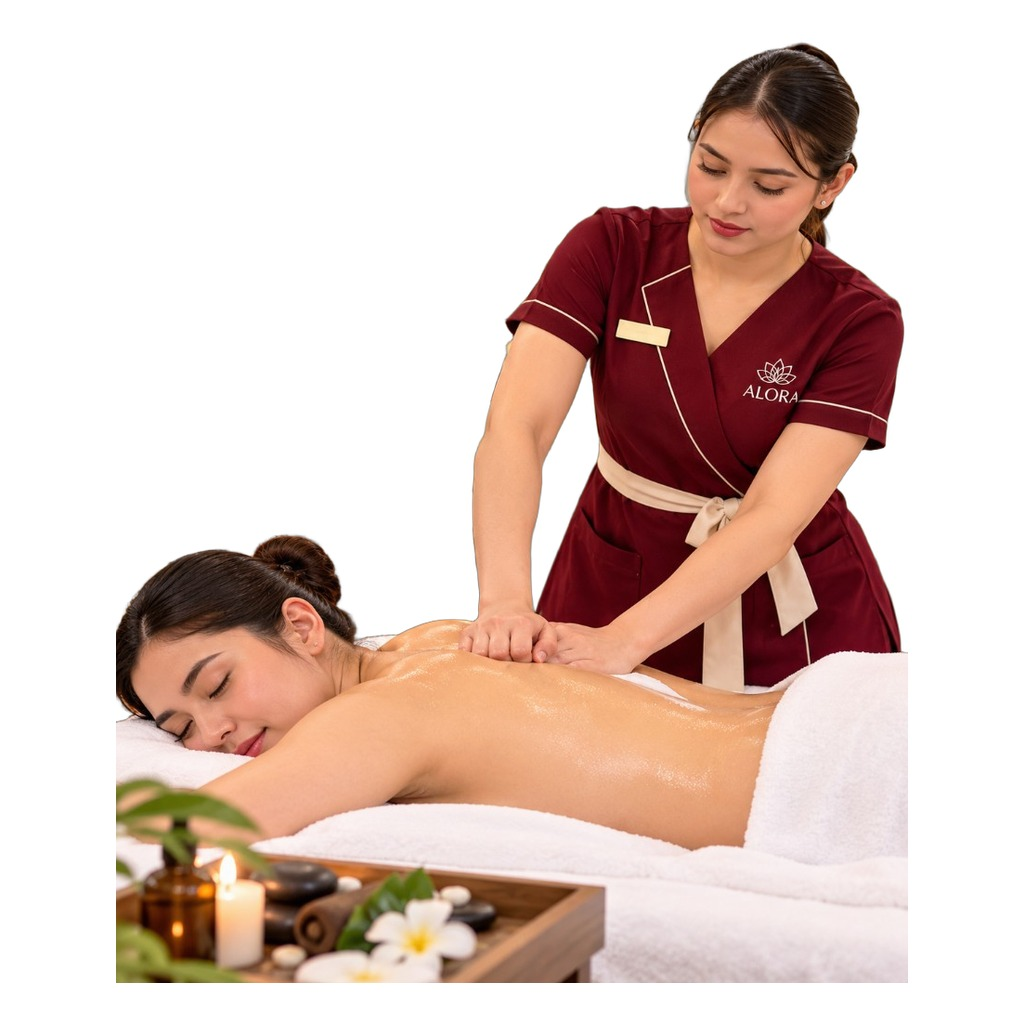
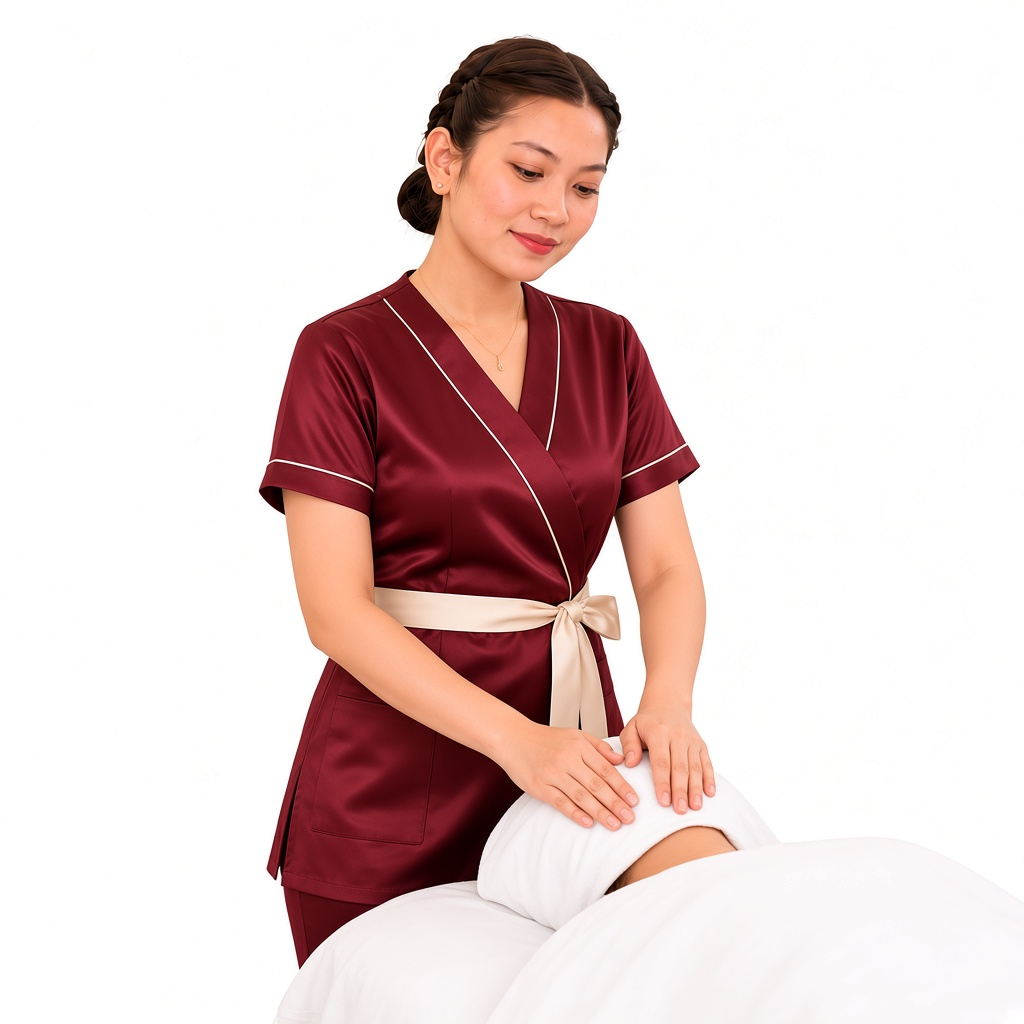
added changes

diff --git a/src/app/globals.css b/src/app/globals.css
@@ -1369,21 +1369,39 @@ html.is-navigating,html.is-navigating a{cursor:progress}
   .home .hero-slide-caption .btn-primary{padding:9px 14px;font-size:13px}
 }
 
-/* Hero caption text — force larger */
+/* Hero caption text — bold, clear, proper */
 .home .hero-slide-caption strong,
 .home .hero-slide-caption strong a{
-  font-size:26px!important;
-  line-height:1.15!important;
-  padding:10px 18px!important;
-  font-weight:600!important;
+  font-family:var(--font-display),Georgia,'Times New Roman',serif!important;
+  font-size:22px!important;
+  line-height:1.1!important;
+  padding:12px 20px!important;
+  font-weight:900!important;
+  letter-spacing:.04em!important;
+  -webkit-font-smoothing:antialiased;
+  text-rendering:geometricPrecision;
 }
 .home .hero-slide-caption .btn-primary{
-  font-size:15px!important;
-  padding:11px 18px!important;
+  font-family:var(--font-display),Georgia,'Times New Roman',serif!important;
+  font-size:16px!important;
+  font-weight:900!important;
+  letter-spacing:.04em!important;
+  padding:12px 20px!important;
 }
 @media(max-width:800px){
   .home .hero-slide-caption strong,
-  .home .hero-slide-caption strong a{font-size:20px!important;padding:9px 14px!important}
+  .home .hero-slide-caption strong a{
+    font-size:22px!important;
+    font-weight:900!important;
+    letter-spacing:.05em!important;
+    padding:12px 22px!important;
+  }
+  .home .hero-slide-caption .btn-primary{
+    font-size:16px!important;
+    font-weight:900!important;
+    letter-spacing:.05em!important;
+    padding:12px 22px!important;
+  }
 }
 
 /* Laptop hero — more compact */
@@ -1511,7 +1529,7 @@ html.is-navigating,html.is-navigating a{cursor:progress}
     opacity:1!important;
     mix-blend-mode:normal!important;
   }
-  /* Spa Package etc — red pill, white text (mobile style) */
+  /* Circles: white fill + white border (mobile) */
   .home .hero-slide-caption strong,
   .home .hero-slide-caption strong a{
     position:absolute!important;
@@ -1524,17 +1542,18 @@ html.is-navigating,html.is-navigating a{cursor:progress}
     justify-content:center!important;
     margin:0!important;
     padding:11px 20px!important;
-    border:0!important;
+    border:2px solid #ffffff!important;
     border-radius:999px!important;
-    background:#E10801!important;
-    background-color:#E10801!important;
+    background:#ffffff!important;
+    background-color:#ffffff!important;
     background-image:none!important;
-    box-shadow:none!important;
-    color:#fff!important;
-    font-size:18px!important;
-    font-weight:800!important;
-    letter-spacing:.12em!important;
-    line-height:1.2!important;
+    box-shadow:0 4px 18px rgba(5,22,80,.14)!important;
+    color:#E10801!important;
+    font-family:var(--font-display),Georgia,'Times New Roman',serif!important;
+    font-size:22px!important;
+    font-weight:900!important;
+    letter-spacing:.05em!important;
+    line-height:1.1!important;
     text-transform:uppercase!important;
     white-space:nowrap!important;
     -webkit-text-stroke:0;
@@ -1546,12 +1565,14 @@ html.is-navigating,html.is-navigating a{cursor:progress}
     transform:none!important;
     padding:0!important;
     background:transparent!important;
-    color:#fff!important;
+    border:0!important;
+    box-shadow:none!important;
+    color:#E10801!important;
     font-size:inherit!important;
-    font-weight:800!important;
+    font-weight:900!important;
     letter-spacing:inherit!important;
   }
-  /* Book Now — red bg, white text (mobile style) */
+  /* Book Now circle: white fill + white border (mobile) */
   .home .home-hero-visual .hero-slide-caption a.btn-primary,
   .home .home-hero-visual .hero-slide-caption a.btn-primary:hover,
   .home .home-hero-visual .hero-slide-caption a.btn-primary:focus,
@@ -1563,17 +1584,19 @@ html.is-navigating,html.is-navigating a{cursor:progress}
     z-index:30!important;
     transform:translateX(-50%)!important;
     margin:0!important;
-    font-size:15px!important;
-    font-weight:800!important;
-    padding:11px 22px!important;
+    font-family:var(--font-display),Georgia,'Times New Roman',serif!important;
+    font-size:16px!important;
+    font-weight:900!important;
+    letter-spacing:.05em!important;
+    padding:12px 22px!important;
     border-radius:999px!important;
-    background:#E10801!important;
-    background-color:#E10801!important;
+    background:#ffffff!important;
+    background-color:#ffffff!important;
     background-image:none!important;
-    color:#fff!important;
-    border:0!important;
-    border-color:#E10801!important;
-    box-shadow:none!important;
+    color:#E10801!important;
+    border:2px solid #ffffff!important;
+    border-color:#ffffff!important;
+    box-shadow:0 4px 18px rgba(5,22,80,.14)!important;
     filter:none!important;
     opacity:1!important;
     -webkit-text-stroke:0;
@@ -1584,8 +1607,8 @@ html.is-navigating,html.is-navigating a{cursor:progress}
     display:none!important;
   }
   .home .home-hero-visual .hero-slide-caption a.btn-primary svg{
-    color:#fff!important;
-    fill:#fff!important;
+    color:#E10801!important;
+    fill:#E10801!important;
     filter:none!important;
     opacity:1!important;
   }
@@ -1652,25 +1675,25 @@ html.is-navigating,html.is-navigating a{cursor:progress}
   .home .home-hero-visual:after{animation:none!important;opacity:.5}
 }
 
-/* Mobile Book Now — red fill + white text only on mobile */
+/* Mobile Book Now — white fill + white border (visible via soft shadow) */
 @media(max-width:800px){
   .home .home-hero .hero-slide-caption > a.btn-primary,
   .home .home-hero .hero-slide-caption > a.btn-primary:hover,
   .home .home-hero .hero-slide-caption > a.btn-primary:focus,
   .home .home-hero .hero-slide-caption > a.btn-primary:active{
-    background:#E10801!important;
-    background-color:#E10801!important;
+    background:#ffffff!important;
+    background-color:#ffffff!important;
     background-image:none!important;
-    color:#ffffff!important;
-    border:0!important;
-    box-shadow:none!important;
+    color:#E10801!important;
+    border:2px solid #ffffff!important;
+    box-shadow:0 4px 18px rgba(5,22,80,.14)!important;
     filter:none!important;
     opacity:1!important;
   }
-  .home .home-hero .hero-slide-caption > a.btn-primary svg{color:#ffffff!important;fill:#ffffff!important;opacity:1!important}
+  .home .home-hero .hero-slide-caption > a.btn-primary svg{color:#E10801!important;fill:#E10801!important;opacity:1!important}
 }
 
-/* Desktop hero captions — same red + text as mobile, both lower */
+/* Desktop hero captions — white pill, red text, both lower */
 @media(min-width:801px){
   .home .hero-slide-caption{
     display:flex!important;
@@ -1692,28 +1715,29 @@ html.is-navigating,html.is-navigating a{cursor:progress}
     transform:none!important;
     display:inline-flex!important;
     align-items:center!important;
-    background:#E10801!important;
-    background-color:#E10801!important;
-    color:#fff!important;
-    border:0!important;
+    background:#ffffff!important;
+    background-color:#ffffff!important;
+    color:#E10801!important;
+    border:2px solid #ffffff!important;
     border-radius:999px!important;
-    box-shadow:0 8px 18px rgba(225,8,1,.2)!important;
+    box-shadow:0 4px 18px rgba(5,22,80,.14)!important;
     text-transform:uppercase!important;
-    letter-spacing:.12em!important;
-    font-weight:800!important;
-    font-size:14px!important;
-    line-height:1.2!important;
-    padding:10px 16px!important;
+    letter-spacing:.04em!important;
+    font-family:var(--font-display),Georgia,'Times New Roman',serif!important;
+    font-weight:900!important;
+    font-size:16px!important;
+    line-height:1.1!important;
+    padding:11px 18px!important;
     white-space:nowrap!important;
   }
   .home .hero-slide-caption strong a{
     background:transparent!important;
     border:0!important;
     box-shadow:none!important;
-    color:#fff!important;
+    color:#E10801!important;
     padding:0!important;
     font-size:inherit!important;
-    font-weight:800!important;
+    font-weight:900!important;
     letter-spacing:inherit!important;
   }
   .home .home-hero-visual .hero-slide-caption a.btn-primary,
@@ -1725,20 +1749,22 @@ html.is-navigating,html.is-navigating a{cursor:progress}
     top:auto!important;
     bottom:auto!important;
     transform:none!important;
-    background:#E10801!important;
-    background-color:#E10801!important;
+    background:#ffffff!important;
+    background-color:#ffffff!important;
     background-image:none!important;
-    color:#fff!important;
-    border:0!important;
+    color:#E10801!important;
+    border:2px solid #ffffff!important;
     border-radius:999px!important;
-    box-shadow:0 8px 18px rgba(225,8,1,.2)!important;
-    font-size:14px!important;
-    font-weight:800!important;
-    padding:10px 16px!important;
+    box-shadow:0 4px 18px rgba(5,22,80,.14)!important;
+    font-family:var(--font-display),Georgia,'Times New Roman',serif!important;
+    font-size:15px!important;
+    font-weight:900!important;
+    letter-spacing:.04em!important;
+    padding:11px 18px!important;
   }
   .home .home-hero-visual .hero-slide-caption a.btn-primary svg{
-    color:#fff!important;
-    fill:#fff!important;
+    color:#E10801!important;
+    fill:#E10801!important;
   }
   .home .home-hero-visual .hero-slide-caption a.btn-primary:before,
   .home .home-hero-visual .hero-slide-caption a.btn-primary:after{
